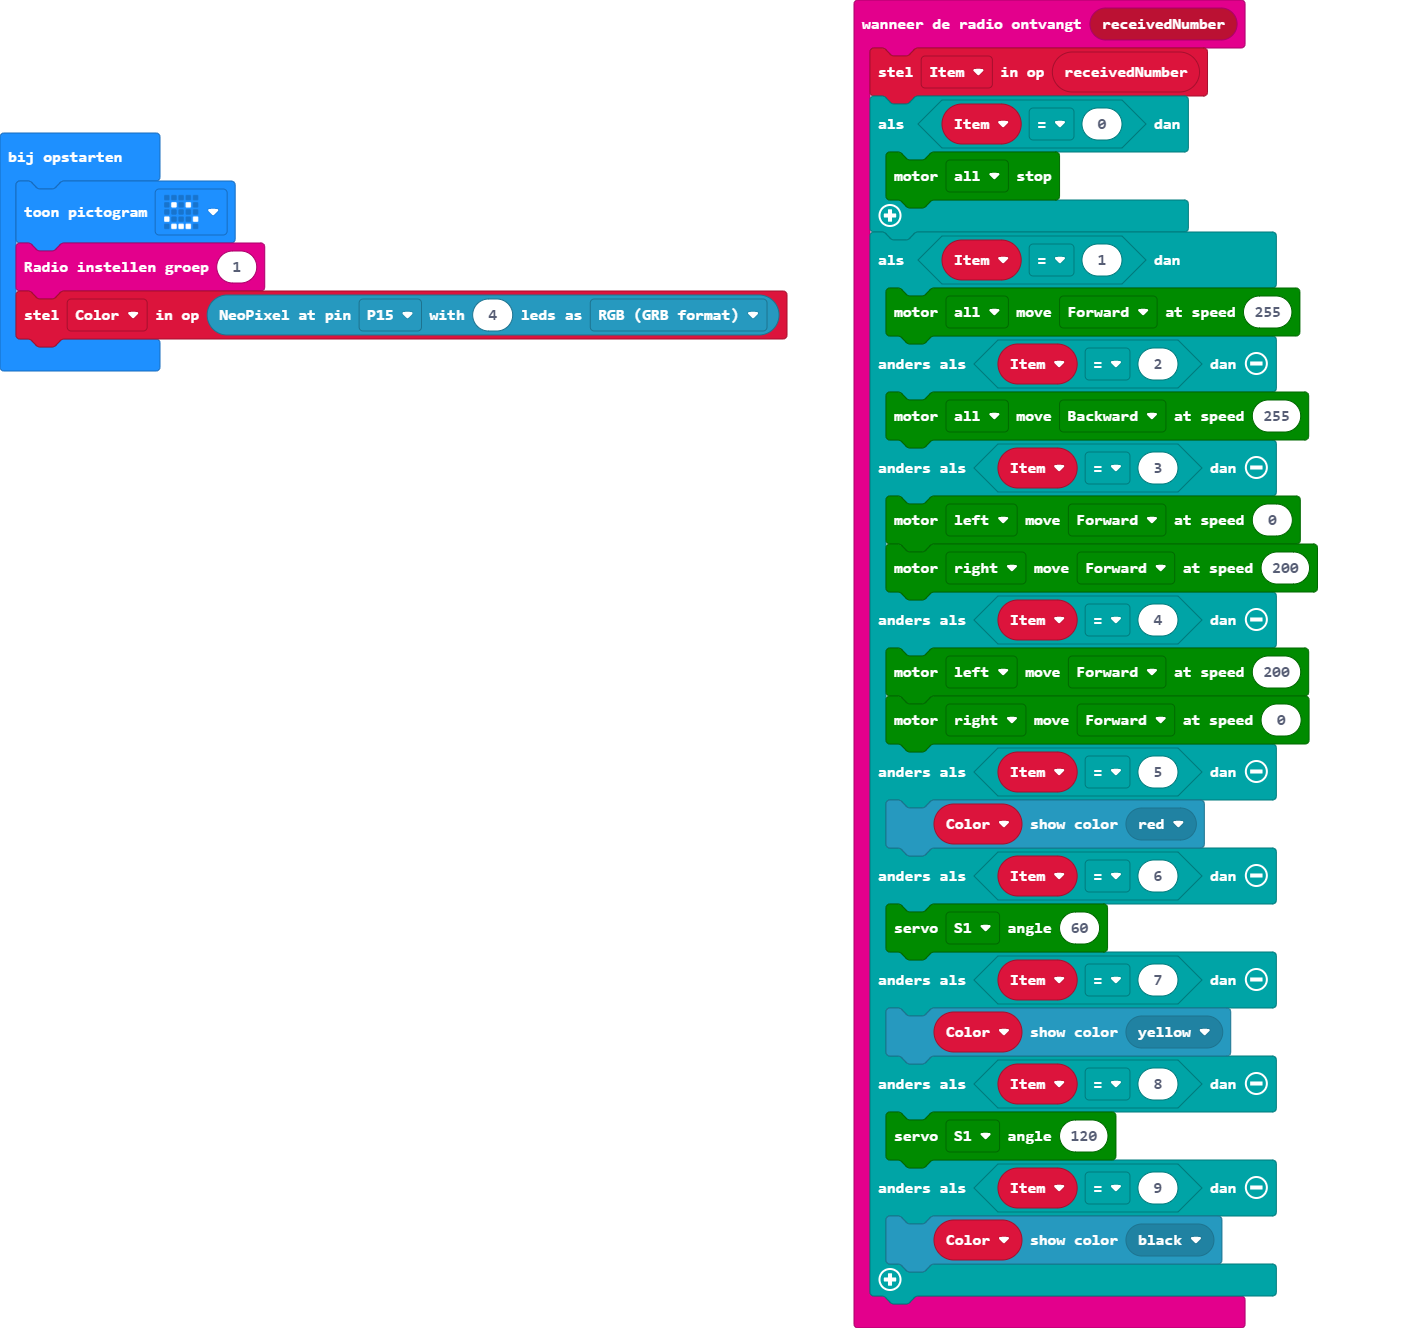
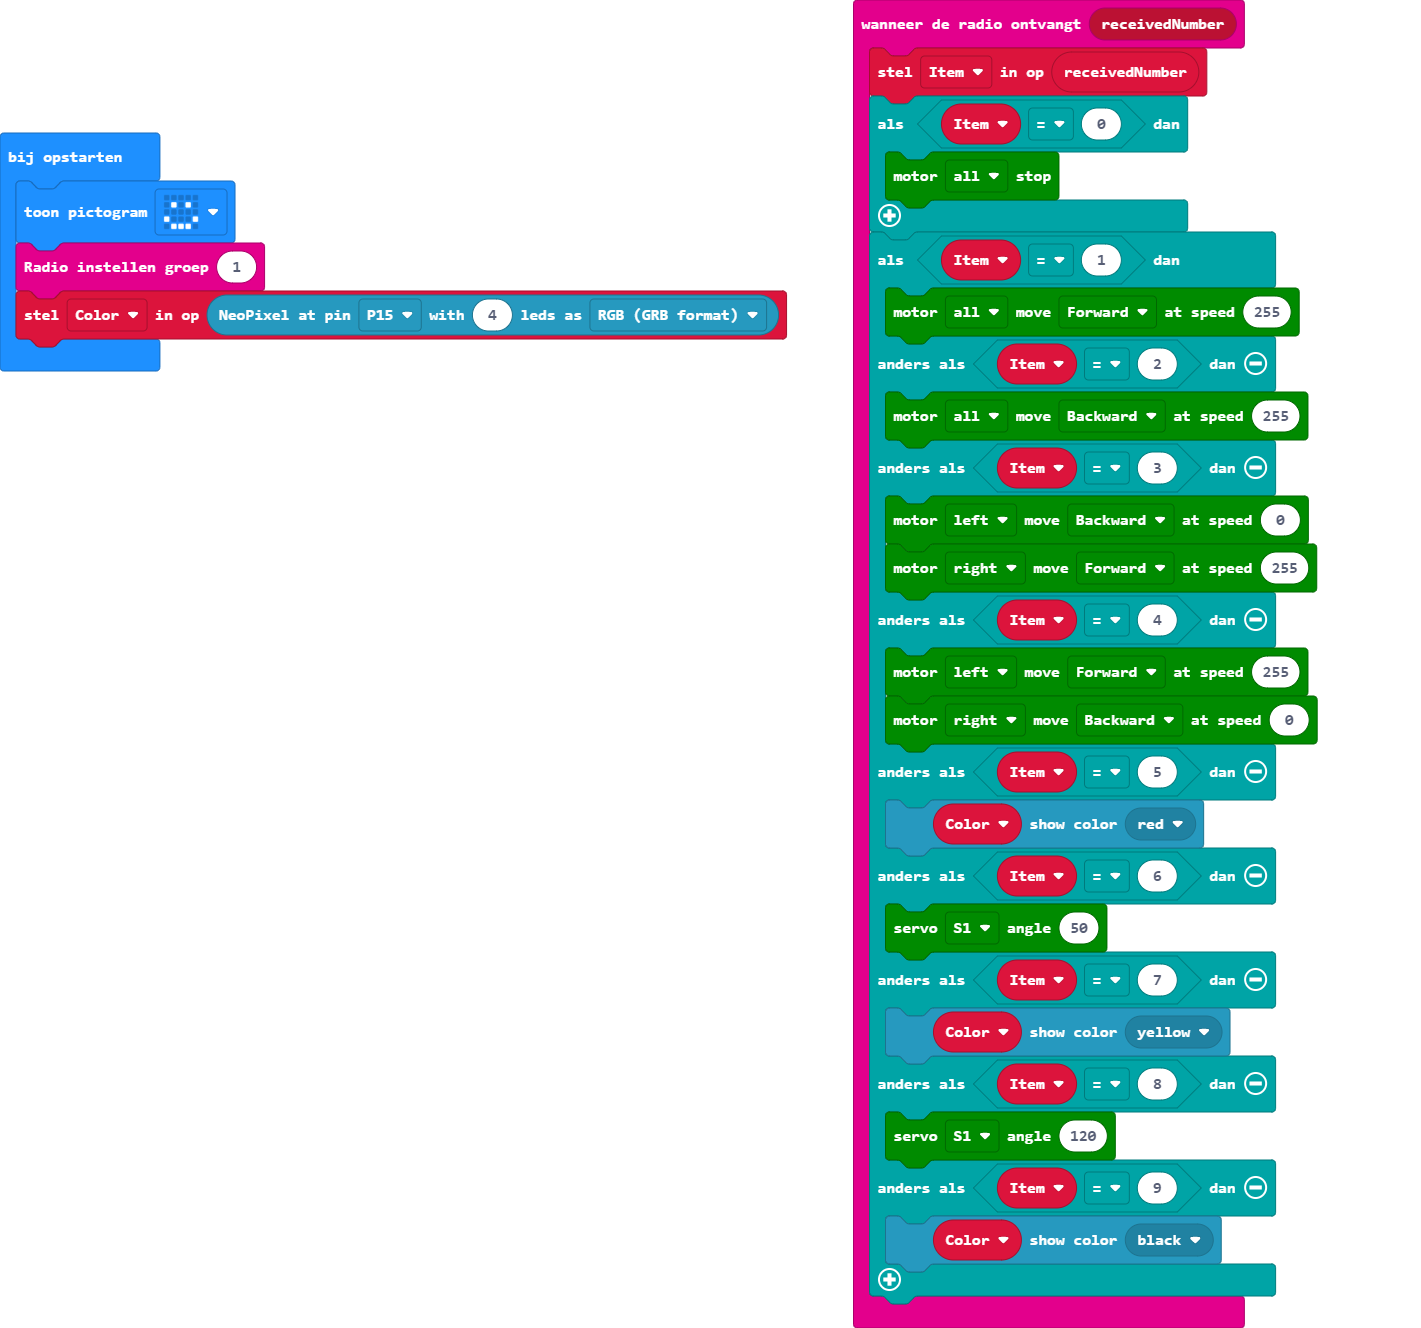
main.blocks, main.ts bijwerken

diff --git a/main.ts b/main.ts
@@ -8,15 +8,15 @@ radio.onReceivedNumber(function (receivedNumber) {
     } else if (Item == 2) {
         maqueen.motorRun(maqueen.Motors.All, maqueen.Dir.CCW, 255)
     } else if (Item == 3) {
-        maqueen.motorRun(maqueen.Motors.M1, maqueen.Dir.CW, 0)
-        maqueen.motorRun(maqueen.Motors.M2, maqueen.Dir.CW, 200)
+        maqueen.motorRun(maqueen.Motors.M1, maqueen.Dir.CCW, 0)
+        maqueen.motorRun(maqueen.Motors.M2, maqueen.Dir.CW, 255)
     } else if (Item == 4) {
-        maqueen.motorRun(maqueen.Motors.M1, maqueen.Dir.CW, 200)
-        maqueen.motorRun(maqueen.Motors.M2, maqueen.Dir.CW, 0)
+        maqueen.motorRun(maqueen.Motors.M1, maqueen.Dir.CW, 255)
+        maqueen.motorRun(maqueen.Motors.M2, maqueen.Dir.CCW, 0)
     } else if (Item == 5) {
         Color.showColor(neopixel.colors(NeoPixelColors.Red))
     } else if (Item == 6) {
-        maqueen.servoRun(maqueen.Servos.S1, 60)
+        maqueen.servoRun(maqueen.Servos.S1, 50)
     } else if (Item == 7) {
         Color.showColor(neopixel.colors(NeoPixelColors.Yellow))
     } else if (Item == 8) {
